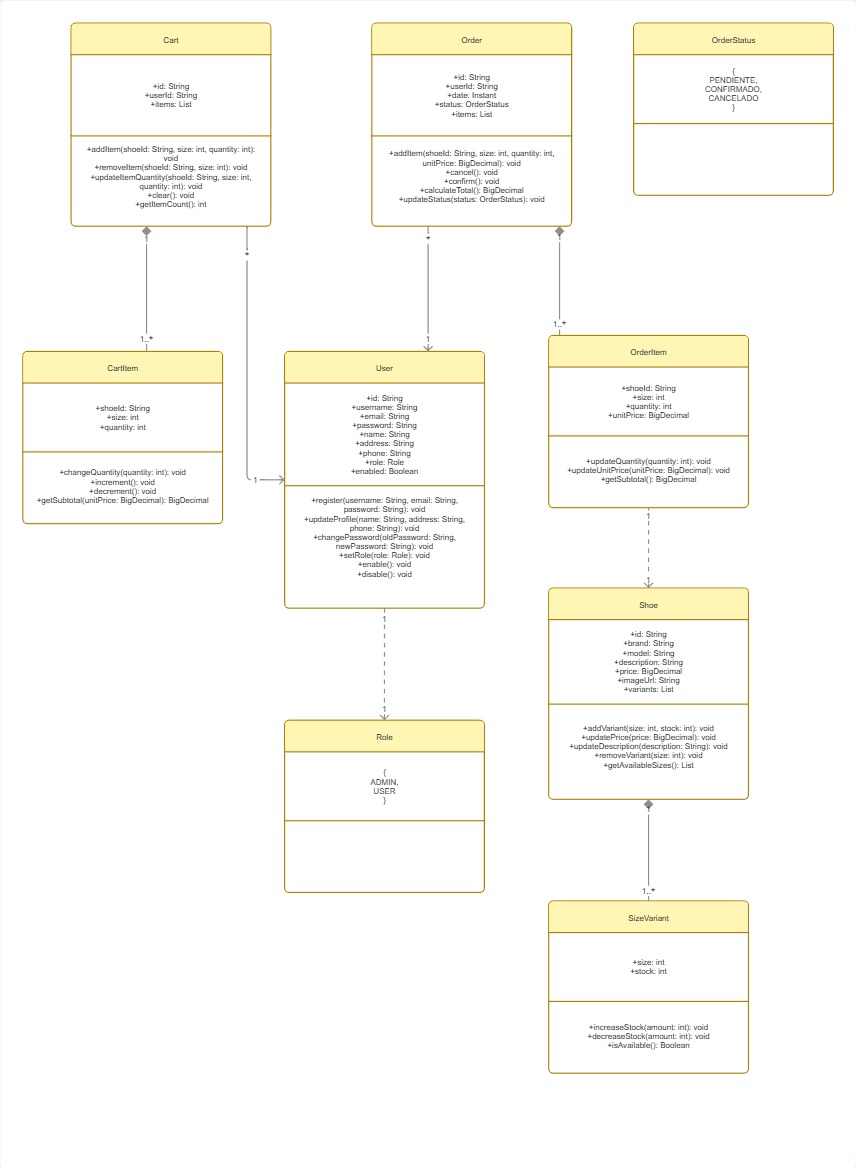
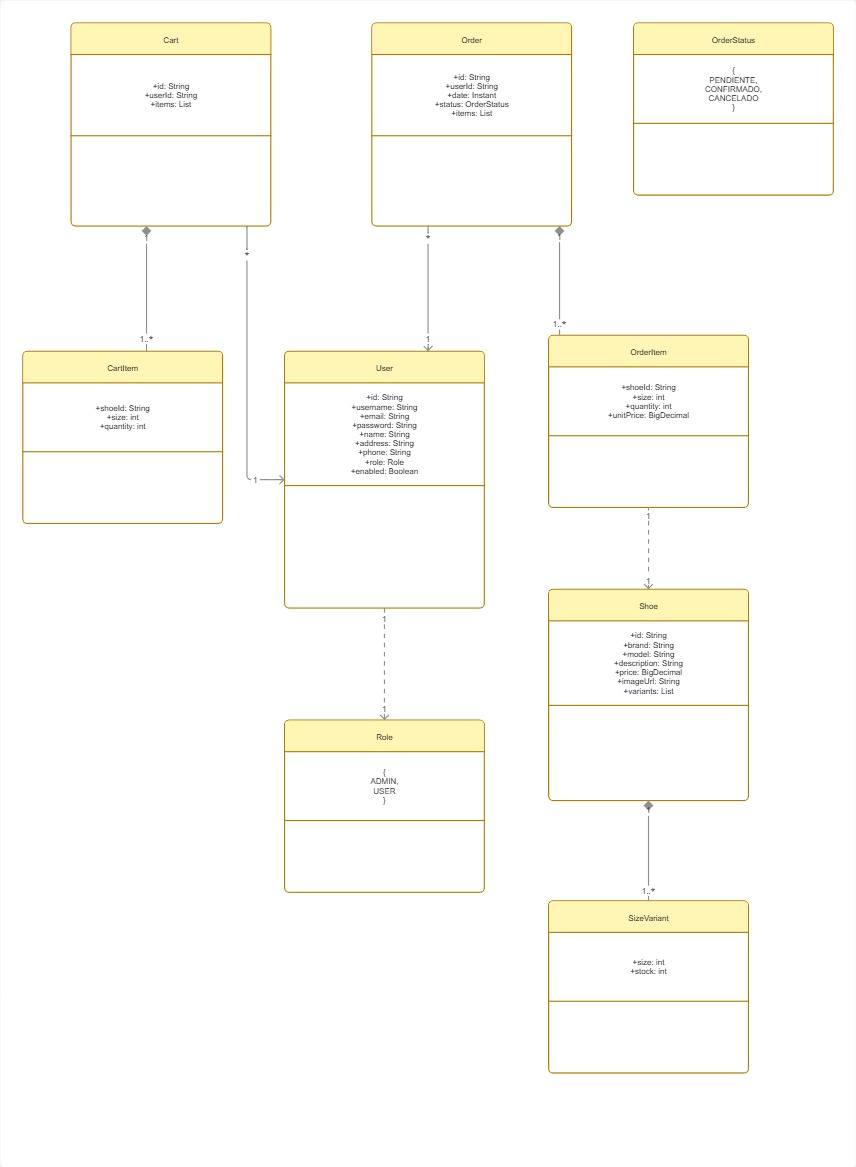
feat: Agregando comentarios de funcionamiento que sirvan como documentación dentro de las clases.

diff --git a/basquet-store-api/src/main/java/com/basquetstore/basquet_store_api/service/OrderServiceimpl.java b/basquet-store-api/src/main/java/com/basquetstore/basquet_store_api/service/OrderServiceimpl.java
@@ -26,10 +26,13 @@ import java.util.stream.Collectors;
 @AllArgsConstructor
 public class OrderServiceimpl implements OrderService {
 
+    //Servicio de pedidos
+
     private final OrderRepository orderRepository;
     private final CartRepository cartRepository;
     private final ShoeRepository shoeRepository;
 
+    //Método auxiliar
     private void returnStock(Order order) {
         for (OrderItem item : order.getItems()) {
             Shoe shoe = shoeRepository.findById(item.getShoeId()).orElse(null);
@@ -43,6 +46,7 @@ public class OrderServiceimpl implements OrderService {
         }
     }
 
+    //Método auxiliar
     private OrderResponse mapToResponse(Order order) {
         return new OrderResponse(
                 order.getId(),
@@ -56,6 +60,7 @@ public class OrderServiceimpl implements OrderService {
     }
 
     @Transactional
+    //Transactional indica que, en caso de que se produzca una excepción, se reviertan TODAS las acciones (Evitando errores de actualizaciones)
     @Override
     public OrderResponse createOrder(String userId) {
         //Creamos el carrito y verificamos que no esté vacío
@@ -68,15 +73,15 @@ public class OrderServiceimpl implements OrderService {
         //Validamos stock
         List<OrderItem> orderItems = new ArrayList<>();
         for (CartItem cartItem : cart.getItems()) {
-            Shoe shoe = shoeRepository.findById(cartItem.getShoeId())
+            Shoe shoe = shoeRepository.findById(cartItem.getShoeId()) //Buscamos el objeto zapatilla dentro de la bdd
                     .orElseThrow(() -> new ResourceNotFoundException("Producto no encontrado."));
 
-            SizeVariant variant = shoe.getVariants().stream()
-                    .filter(v -> v.getSize() == cartItem.getSize())
+            SizeVariant variant = shoe.getVariants().stream()//Extraemos los SizeVariant de la misma
+                    .filter(v -> v.getSize() == cartItem.getSize()) //Buscamos el talle solicitado
                     .findFirst()
                     .orElseThrow(() -> new InsufficientStockException("Talle sin stock."));
 
-            if (variant.getStock() < cartItem.getQuantity()) {
+            if (variant.getStock() < cartItem.getQuantity()) { //Comprobamos que la cantidad deseada no supere el stock real
                 throw new InsufficientStockException("Stock insuficiente para " + shoe.getModel() + " talle: " + cartItem.getSize());
             }
 
@@ -93,21 +98,22 @@ public class OrderServiceimpl implements OrderService {
 
             shoeRepository.save(shoe);
         }
-        //Creamos orden
+        //Creamos pedido
         Order order = new Order();
         order.setUserId(userId);
         order.setDate(Instant.now());
-        order.setStatus(OrderStatus.PENDIENTE);
+        order.setStatus(OrderStatus.PENDIENTE); //Automáticamente asignamos el pedido como PENDIENTE
         order.setItems(orderItems);
         orderRepository.save(order);
 
-        cartRepository.deleteByUserId(userId);
+        cartRepository.deleteByUserId(userId); //Eliminamos el carrito del usuario, pues ya hizo el pedido
 
         return mapToResponse(order);
     }
 
     @Override
     public Page<OrderResponse> findOrders(String userId, OrderStatus status, Pageable pageable) {
+        //Buscamos los pedidos según los datos que recibamos del controlador (status e id de usuario)
         if (status != null && userId != null)
             return orderRepository.findByUserIdAndStatus(userId, status, pageable).map(this::mapToResponse);
 
@@ -132,12 +138,16 @@ public class OrderServiceimpl implements OrderService {
         OrderStatus newStatus = request.getStatus();
 
         //Validamos los pases de estados.
+
+        //No se reconocerá otro estado, y un pedido (ya sea confirmado o cancelado) no puede volver a ser pendiente
         if (newStatus != OrderStatus.CANCELADO && newStatus != OrderStatus.CONFIRMADO)
             throw new StatusUpdateException("Transición no permitida: No se reconoce el estado, o bien no puede volver a ser 'PENDIENTE'");
 
+        //No se puede cambiar el estado de un pedido cancelado.
         if (order.getStatus() == OrderStatus.CANCELADO)
             throw new StatusUpdateException("Transición no permitida: La orden ya se encuentra cancelada");
 
+        //Si se cancela un pedido, ya sea confirmado o pendiente, se retorna el stock
         if (newStatus == OrderStatus.CANCELADO) {
             returnStock(order);
         }

diff --git a/basquet-store-api/src/main/java/com/basquetstore/basquet_store_api/controller/OrderController.java b/basquet-store-api/src/main/java/com/basquetstore/basquet_store_api/controller/OrderController.java
@@ -26,6 +26,8 @@ import java.security.Principal;
 @AllArgsConstructor
 public class OrderController {
 
+    //Controlador de pedidos
+
     private final OrderService orderService;
     private final UserRepository userRepository;
 
@@ -36,6 +38,8 @@ public class OrderController {
         return user.getId();
     }
 
+    //Este método permite al admin ver los pedidos de todos
+    //Cuando se requiere listar los pedidos, si principal detecta que hay un usario, retornará su Id. Si hay un admin, retornará null
     private String getUserIdOptional(Principal principal) {
         if (principal == null) return null;
         return getUserIdPrincipal(principal);
@@ -50,11 +54,13 @@ public class OrderController {
     public ResponseEntity<Page<OrderResponse>> listOrders(Principal principal,
                                                           @RequestParam(required = false) OrderStatus status,
                                                           @PageableDefault(size = 4) Pageable pageable) {
+        //Extraemos si dentro del ContextHolder, hay autenticación de admin
         Authentication auth = SecurityContextHolder.getContext().getAuthentication();
         if (auth.getAuthorities().stream()
-                .anyMatch(a -> a.getAuthority().equals("ROLE_ADMIN"))) {
+                .anyMatch(a -> a.getAuthority().equals("ROLE_ADMIN"))) { //Si el usuario es admin (userid null), puede ver todas
             return ResponseEntity.ok(orderService.findOrders(null, status, pageable));
         } else {
+            //Lo normal, el userId no es null y verá las suyas
             return ResponseEntity.ok(orderService.findOrders(getUserIdPrincipal(principal), status, pageable));
         }
     }
@@ -62,6 +68,7 @@ public class OrderController {
     @GetMapping("/{id}")
     public ResponseEntity<OrderResponse> getOrder(@PathVariable String id, Principal principal){
         OrderResponse order = orderService.findById(getUserIdOptional(principal), id);
+        //Lo mismo que antes, solo que ahora es para buscar un pedido en particular.
         Authentication auth = SecurityContextHolder.getContext().getAuthentication();
         if (auth.getAuthorities().stream().anyMatch(a -> a.getAuthority().equals("ROLE_ADMIN")) &&
         !order.getUserId().equals(getUserIdPrincipal(principal))){

diff --git a/basquet-store-api/src/main/java/com/basquetstore/basquet_store_api/service/CartServiceImpl.java b/basquet-store-api/src/main/java/com/basquetstore/basquet_store_api/service/CartServiceImpl.java
@@ -24,9 +24,12 @@ import java.util.stream.Collectors;
 @Service
 public class CartServiceImpl implements CartService{
 
+    //Servicio de carrito
+
     private final CartRepository cartRepository;
     private final ShoeRepository shoeRepository;
 
+    //Método auxiliar
     private CartResponse mapToResponse(Cart cart) {
         return new CartResponse(
                 cart.getId(),
@@ -37,6 +40,7 @@ public class CartServiceImpl implements CartService{
         );
     }
 
+    //Método auxiliar
     private Cart getOrCreateCart(String userId) {
         return cartRepository.findByUserId(userId)
                 .orElseGet(() -> {
@@ -61,7 +65,7 @@ public class CartServiceImpl implements CartService{
         Shoe shoe = shoeRepository.findById(request.getShoeId())
                 .orElseThrow(() -> new ResourceNotFoundException("La zapatilla no fue encontrada."));
         //Validamos existencia de talle
-        SizeVariant variant = shoe.getVariants().stream()
+        SizeVariant variant = shoe.getVariants().stream() //De la zapatilla, extraemos sus SizeVariant, para comprobar si hay stock y talle coincidentes
                 .filter(v -> v.getSize() == request.getSize())
                 .findFirst()
                 .orElseThrow(() -> new InsufficientStockException("Stock de talle no encontrado."));
@@ -93,7 +97,7 @@ public class CartServiceImpl implements CartService{
         Cart cart = getOrCreateCart(userId);
         //Buscamos el item a actualizar
         CartItem item = cart.getItems().stream()
-                .filter(i -> i.getShoeId().equals(shoeId) && i.getSize() == size)
+                .filter(i -> i.getShoeId().equals(shoeId) && i.getSize() == size) //Comprobamos coincidencia de id de zapatilla y talle con el item
                 .findFirst()
                 .orElseThrow(() -> new BadRequestException("Item no encontrado en el carrito."));
 

diff --git a/basquet-store-api/src/main/java/com/basquetstore/basquet_store_api/security/JwtTokenProvider.java b/basquet-store-api/src/main/java/com/basquetstore/basquet_store_api/security/JwtTokenProvider.java
@@ -14,17 +14,19 @@ import java.util.Date;
 @Component
 public class JwtTokenProvider {
 
+    //Creamos un proveedor de token para cada usuario
+
     private final SecretKey secretKey;
 
     private final long expiration;
 
     public JwtTokenProvider(@Value("${jwt.secret}") String secret,
-                            @Value("${jwt.expiration}") long expiration){
+                            @Value("${jwt.expiration}") long expiration) {
         this.secretKey = Keys.hmacShaKeyFor(secret.getBytes(StandardCharsets.UTF_8));
         this.expiration = expiration;
     }
 
-    public String generateToken(String username, String role){
+    public String generateToken(String username, String role) {
         return Jwts.builder()
                 .subject(username)
                 .claim("role", role)
@@ -35,7 +37,7 @@ public class JwtTokenProvider {
     }
 
     //Claims => Es el cuerpo del Token. Podríamos decir que, a través del token, obtenemos un "objeto" Token.
-    private Claims parseClaims(String token){
+    private Claims parseClaims(String token) {
         return Jwts.parser()
                 .verifyWith(this.secretKey)
                 .build()
@@ -43,13 +45,15 @@ public class JwtTokenProvider {
                 .getPayload();
     }
 
-    public String getEmailFromToken(String token){
+    public String getEmailFromToken(String token) {
         return parseClaims(token).getSubject();
     }
 
-    public String getRoleFromToken(String token){
+    /* Método no utilizado, por ahora...
+    public String getRoleFromToken(String token) {
         return parseClaims(token).get("role", String.class);
     }
+     */
 
     //De esta manera, validamos el token según la firma y la expiración.
     public boolean validateToken(String token) {
@@ -60,6 +64,5 @@ public class JwtTokenProvider {
             return false;
         }
     }
-
 
 }

diff --git a/basquet-store-api/src/main/java/com/basquetstore/basquet_store_api/service/AuthServiceImpl.java b/basquet-store-api/src/main/java/com/basquetstore/basquet_store_api/service/AuthServiceImpl.java
@@ -17,6 +17,8 @@ import org.springframework.stereotype.Service;
 @Service
 public class AuthServiceImpl implements AuthService{
 
+    //Servicio de autenticación.
+
     private final UserRepository userRepository;
     private final PasswordEncoder passwordEncoder;
     private final JwtTokenProvider jwtTokenProvider;
@@ -27,19 +29,21 @@ public class AuthServiceImpl implements AuthService{
             throw new BadCredentialsException("El mail ya se encuentra registrado.");
         }
 
+        //Si no existe, creamos el usuario
+
         User user = new User();
         user.setUsername(request.getUsername());
         user.setEmail(request.getEmail());
-        user.setPassword(passwordEncoder.encode(request.getPassword()));
+        user.setPassword(passwordEncoder.encode(request.getPassword())); //Importante, siempre guardar la contraseña en la bdd de manera encriptada, evitando exposiciones.
         user.setName(request.getName());
         user.setAddress(request.getAddress());
         user.setPhone(request.getPhone());
-        user.setRole(Role.USUARIO);
+        user.setRole(Role.USUARIO); //Todos los usuarios registrados serán USUARIO, sin poder crear Admin
         user.setEnabled(true);
 
         userRepository.save(user);
 
-        String token = jwtTokenProvider.generateToken(user.getEmail(), user.getRole().name());
+        String token = jwtTokenProvider.generateToken(user.getEmail(), user.getRole().name()); //Le creamos el token, guardando su mail y rol
         return new JwtResponse(token, user.getEmail(), user.getRole().name());
     }
 

diff --git a/basquet-store-api/src/main/java/com/basquetstore/basquet_store_api/service/ShoeServiceImpl.java b/basquet-store-api/src/main/java/com/basquetstore/basquet_store_api/service/ShoeServiceImpl.java
@@ -15,10 +15,13 @@ import java.util.stream.Collectors;
 
 @AllArgsConstructor
 @Service
-public class ShoeServiceImpl implements ShoeService{
+public class ShoeServiceImpl implements ShoeService {
+
+    //Servicio de zapatillas
 
     private final ShoeRepository shoeRepository;
 
+    //Metodo auxiliar
     private ShoeResponse mapToResponse(Shoe shoe) {
         return new ShoeResponse(
                 shoe.getId(),
@@ -33,8 +36,10 @@ public class ShoeServiceImpl implements ShoeService{
         );
     }
 
-    public Page<ShoeResponse> findAll(String brand, Integer size, Pageable pageable){
+    public Page<ShoeResponse> findAll(String brand, Integer size, Pageable pageable) {
         Page<Shoe> shoePage;
+
+        //Mediante estos condicionales, según los datos que se reciban de la ruta, se mostrarán de diferente manera las zapatillas
 
         if (brand != null && size != null) {
             shoePage = shoeRepository.findByBrandAndSize(brand, size, pageable);

diff --git a/basquet-store-api/src/main/java/com/basquetstore/basquet_store_api/security/CustomUserDetailsService.java b/basquet-store-api/src/main/java/com/basquetstore/basquet_store_api/security/CustomUserDetailsService.java
@@ -15,8 +15,12 @@ import java.util.Collections;
 @Service
 public class CustomUserDetailsService implements UserDetailsService {
 
+    //CustomUserDetailsService nos permite trabajar con usuarios sin necesidad de implementar UserDetails en User.
+    //Lo que hace, es crear una entidad que se pueda comunicar con Spring Security (UserDetails), lo que separa responsabilidades
+
     private final UserRepository userRepository;
 
+    //loadUserByUsername permite contactar con la bdd y, a partir de ello, si existe en ella, retornamos un UserDetails entendible para Spring
     @Override
     public UserDetails loadUserByUsername(String email) throws UsernameNotFoundException {
         User user = userRepository.findByEmail(email).orElseThrow(() -> new UsernameNotFoundException("Usuario no encontrado: " + email));

diff --git a/basquet-store-api/src/main/java/com/basquetstore/basquet_store_api/controller/CartController.java b/basquet-store-api/src/main/java/com/basquetstore/basquet_store_api/controller/CartController.java
@@ -19,6 +19,8 @@ import java.security.Principal;
 @AllArgsConstructor
 public class CartController {
 
+    //Controlador de carrito
+
     private final CartService cartService;
     private final UserRepository userRepository;
 
@@ -43,6 +45,7 @@ public class CartController {
         return ResponseEntity.ok(cartService.addItem(user.getId(), request));
     }
 
+    //Permite, dentro del carrito, actualizar la cantidad que deseamos
     @PutMapping("/items/{shoeId}/{size}")
     public ResponseEntity<CartResponse> updateitemQuantity(Principal principal,
                                                            @PathVariable String shoeId,

diff --git a/basquet-store-api/src/main/java/com/basquetstore/basquet_store_api/config/SecurityConfig.java b/basquet-store-api/src/main/java/com/basquetstore/basquet_store_api/config/SecurityConfig.java
@@ -17,12 +17,16 @@ import org.springframework.security.web.authentication.UsernamePasswordAuthentic
 @AllArgsConstructor
 public class SecurityConfig {
 
+    //Configuración de seguridad para las rutas
+
     private final JwtAuthenticationFilter jwtAuthenticationFilter;
 
+    //Asignamos que tipo de encriptación de contraseñas utilizaremos dentro de nuestro Spring Security
     @Bean
     public PasswordEncoder passwordEncoder() {
         return new BCryptPasswordEncoder();
     }
+
 
     @Bean
     public SecurityFilterChain filterChain(HttpSecurity http) throws Exception {

diff --git a/basquet-store-api/src/main/java/com/basquetstore/basquet_store_api/security/JwtAuthenticationFilter.java b/basquet-store-api/src/main/java/com/basquetstore/basquet_store_api/security/JwtAuthenticationFilter.java
@@ -20,9 +20,12 @@ import java.io.IOException;
 @AllArgsConstructor
 public class JwtAuthenticationFilter extends OncePerRequestFilter {
 
+    //Creamos un filtrado de usuarios Autenticados
+
     private final JwtTokenProvider jwtTokenProvider;
     private final CustomUserDetailsService customUserDetailsService;
 
+    //Para entender mejor, visita mi repositorio de register-login-api, todo está detallado
     @Override
     protected void doFilterInternal(HttpServletRequest request,
                                     HttpServletResponse response,

diff --git a/basquet-store-api/src/main/java/com/basquetstore/basquet_store_api/config/DataLoader.java b/basquet-store-api/src/main/java/com/basquetstore/basquet_store_api/config/DataLoader.java
@@ -20,6 +20,8 @@ import java.util.concurrent.ThreadLocalRandom;
 @AllArgsConstructor
 public class DataLoader implements CommandLineRunner {
 
+    //Cargamos datos (en caso que no existan) dentro de la bdd. Creamos un usuario normal, un admin e insertamos las zapatillas de forma predeterminada
+
     private final ShoeRepository shoeRepository;
     private final UserRepository userRepository;
     private final PasswordEncoder passwordEncoder;

diff --git a/basquet-store-api/src/main/java/com/basquetstore/basquet_store_api/service/AuthService.java b/basquet-store-api/src/main/java/com/basquetstore/basquet_store_api/service/AuthService.java
@@ -4,6 +4,7 @@ import com.basquetstore.basquet_store_api.dto.request.LoginRequest;
 import com.basquetstore.basquet_store_api.dto.request.RegisterRequest;
 import com.basquetstore.basquet_store_api.dto.response.JwtResponse;
 
+//Interfaz para el servicio de Autenticación.
 public interface AuthService {
 
     JwtResponse register(RegisterRequest request);
